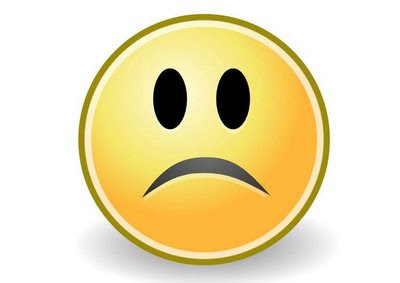
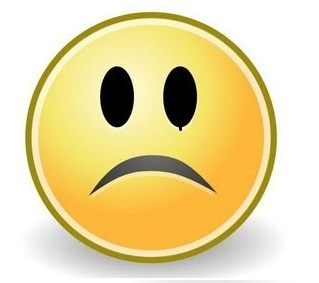
Modulo recorta imagenes casi listo
El modulo cuenta con dos funciones binarizar: que convierte luna imagen
a binario
Y recortar que encuentra los bordes y recorta la imagen

diff --git a/recortar01.py b/recortar01.py
@@ -35,7 +35,7 @@ def binar(img,i=None,t=None):
 
 	return thresh
 
-def contmax(contours):
+#def contmax(contours):
 
 
 #Guarda Imagenes BInarias recortadas y normalizadas
@@ -52,19 +52,43 @@ def recortar(base,stra,strb,n,show=None): #Base="caritas", stra="feliz", strb="t
 		at = binar(ag)
 		bt = binar(bg)
 
-		gg, contours1, gg2 = cv2.findContours(at,cv2.RETR_TREE,cv2.CHAIN_APPROX_SIMPLE)
-		gg, contours2, gg2 = cv2.findContours(bt,cv2.RETR_TREE,cv2.CHAIN_APPROX_SIMPLE)
+		gg, contours1, gg2 = cv2.findContours(at,cv2.RETR_EXTERNAL,cv2.CHAIN_APPROX_SIMPLE)
+		gg, contours2, gg2 = cv2.findContours(bt,cv2.RETR_EXTERNAL,cv2.CHAIN_APPROX_SIMPLE)
 
-		if show:
+		try:
+			cv2.drawContours (ag, contours1[len(contours1)-1],  -1, 0, 3)
+			x,y,w,h = cv2.boundingRect(contours1[len(contours1)-1])
+			
+		except :
 			cv2.drawContours (ag, contours1,  -1, 0, 3)
-			cv2.drawContours (bg, contours2, - 1, 0, 3)
-
-			cv2.imshow(stra+str(i),ag)
-			cv2.imshow(strb+str(i),bg)
+			x,y,w,h = cv2.boundingRect(contours1[0])
+			
+		af = a[y:y+h,x:x+w]
+		#img = cv2.rectangle(a,(x,y),(x+w,y+h),(0,255,0),2)
+		#cv2.imshow(strb+str(i)+"re",img)
+		cv2.imshow(strb+str(i)+"r",af)	
+		
+		try:
+			cv2.drawContours (bg, contours2[len(contours2)-1],  -1, 0, 3)
+			x,y,w,h = cv2.boundingRect(contours2[len(contours2)-1])
+			
+		except :
+			cv2.drawContours (bg, contours2,  -1, 0, 3)
+			x,y,w,h = cv2.boundingRect(contours2)
+		
+		
+		bf = b[y:y+h,x:x+w]
+		img = cv2.rectangle(bg,(x,y),(x+w,y+h),(0,255,0),2)
+		#cv2.imshow(strb+str(i)+"re",img)
+		#cv2.imshow(strb+str(i)+"r",bf)
 
 		
 
+		cv2.imwrite("listo-"+base+"/"+stra+"-"+str(i)+".jpg",af)
+		cv2.imwrite("listo-"+base+"/"+strb+"-"+str(i)+".jpg",bf)	
+				
 
-recortar("caritas","feliz","triste",5)
+
+recortar("caritas","feliz","triste",5,True)
 cv2.waitKey(0)
 cv2.destroyAllWindows()
